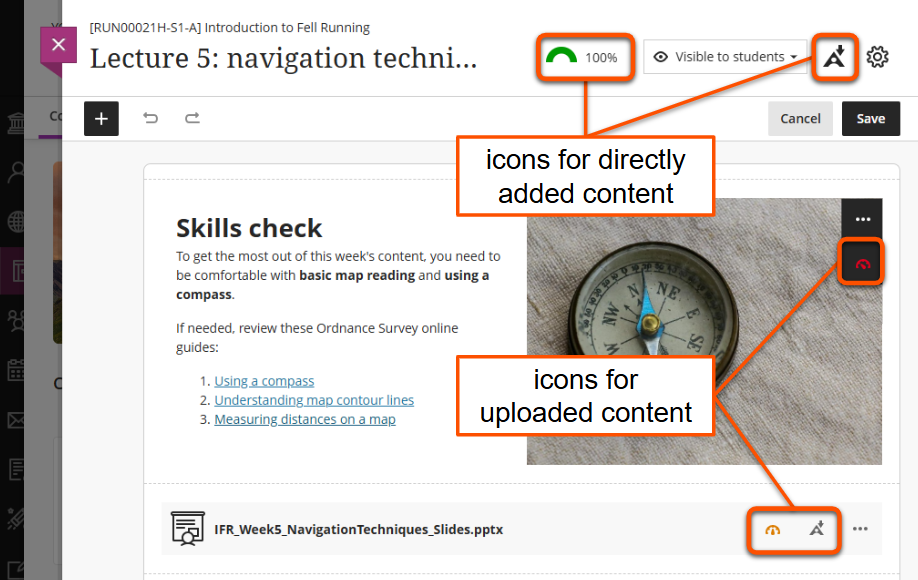
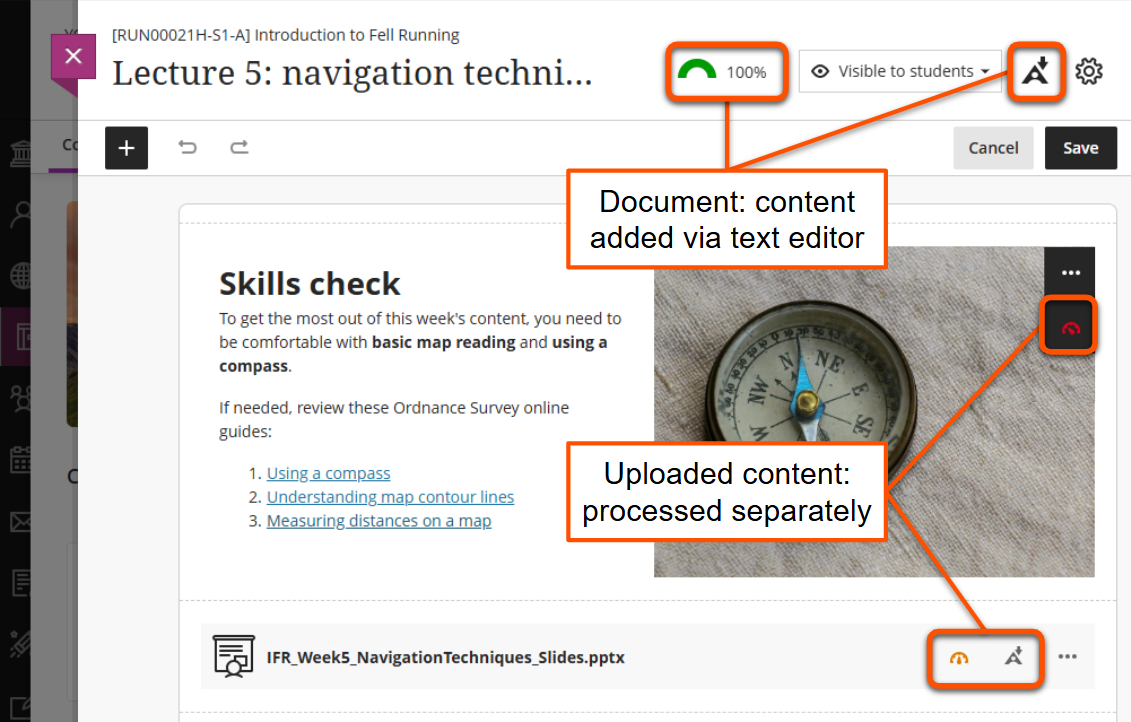
Ally tool - WIP 2

diff --git a/docs/ultra/ally-tool.md b/docs/ultra/ally-tool.md
@@ -7,6 +7,8 @@
 !!! principle "Relevant [VLE site design principles](../ultra/site-design-principles.md)"
 
     - 3.4 Essential: Site and materials content is accessible.
+    - 3.6 Essential: Links and materials titles describe the destination or content.
+    - 3.7 Essential: Direct, descriptive links are given to open embedded content (eg. video, Padlet or Xerte objects) in full screen.
 
 <!-- https://youtu.be/8VnGfbw0DXQ 
 
@@ -71,21 +73,21 @@ Ally automatically processes various types of site content, including:
 
     [Documents](../ultra/documents.md) are the main page type to present your site materials. Ally processes various content within Documents:
     
-    - content added in a Content block (the text editor): text, images, files, YouTube videos etc.
-    - content uploaded in an Image or File block
+    - processed directly: content added in a Content block (the text editor): text, images, files, YouTube videos etc.
+    - processed separately: content uploaded in an Image or File block has its own Ally icons. They must be checked or downloaded in alternate formats separately.
     - not processed: other embedded content, eg. Xerte or Padlet objects
 
     Ally icons relating to content directly added to the Document are shown in the heading bar. The accessibility score icon may take a few seconds to appear and is only shown in *Edit mode*.
     
-    Uploaded files and images display their own Ally icons.
-    
-    ![decorative](images/ally-tool-document.png)
+    ![Document Ally icons in title bar. Uploaded files and images have separate Ally icons](images/ally-tool-document.png)
 
 ## Accessibility checker
 
-!!! Warning
+!!! ai "Using automated tools effectively"
 
-    Ally may not be able to identify all accessibility issues within content, so the accessibility checker should be used as a starting point for your accessibility considerations.
+    The Ally accessibility checker is a **starting point** for your accessibility considerations, as it may not be able to identify all accessibility issues within content. For more details, see [Step 4](#step-4-final-check-for-unidentified-issues) below.
+
+Document content (text editor)( nicon - updates as you edit content)
 
 ### Accessibility score
 
@@ -96,7 +98,7 @@ Ally assigns content items an accessibility score in percentage format.
 The accessibility score icon displayed on items within your site gives a quick measure of content accessibility.
 </div>
 <figure markdown class="no-margin">
-![Gauge with needle pointing from low to high value to show accessibility score](images/ally-tools-accessibility-score-icon.png)
+![Gauge with needle pointing from low to high value to show accessibility score](images/ally-tool-accessibility-score-icon.png)
 <figcaption>Accessibility score icon</figcaption>
 </figure>
 </div>
@@ -115,36 +117,141 @@ Get more information by interacting with the accessibility score icon:
 
 ![decorative](images/ally-tool-score-icon-hover.png)
 
+!!! Tip
+
+    For Ultra Documents, the accessibility score only considers issues in content added directly within a Content block (ie. with the text editor). Uploaded files and images have their own accessibility score and feedback that must be addressed separately.
+
 ### Accessibility feedback
 
 The accessibility feedback page gives more detail on how the item's accessibility score was generated and how to fix the issues identified.
 
-1. Review the numeric accessibility score
-2. Address the issue shown.
-3. Repeat for other issues as necessary.
-4. For files: upload the corrected file. 
+Open the feedback page by clicking the accessibility score wherever it occurs, or on the Course Content page click the three dots icon then select **View Accessibility Score**.
+
+![decorative](images/ally-tool-3dots-score.png)
+
+#### Step 1: Review the numeric accessibility score
+
+The score panel appears at the top of the page. The numeric accessibility score gives a combined measure of the severity of issues identified for this item. Lower scores are more problematic.
+
+![Accessibility score for the item: 37% (with the gauge icon)](images/ally-tool-feedback-score.png)
+
+#### Step 2: Address the highlighted issue
+
+The **issue panel** appears under the score, containing:
+    
+- a brief description of the issue (eg. "This presentation contains images without description")
+- *What this means* button: to show more details on what the issue is and why it's important to fix it
+- *How to...* button: to show guides on how to fix the issue in various content formats
+
+The **review panel** highlights the affected content within the item. You can scroll through the item or use the up/down arrows in the top bar to review all affected content.
+
+![Lecture slides with missing description for image on title page](images/ally-tool-feedback-issue-review.png)
+
+Edit the content item to improve the accessibility:
+
+- *Uploaded files*: update content in the the original file. Download this from the site if needed.
+- *Ultra Documents*: update content directly within the review panel or issue panel. The accessibility score will update as you edit.
+
+#### Step 3: Repeat for further issues as necessary
+
+By default, the issue panel shows the most problematic issue first, but there may be others that also need to be addressed.
+
+1. Click the **All issues** button in the score panel.
+2. Select the next identified issue in the list.
+3. Repeat Step 2 to address this issue.
+4. Repeat Step 3 until all identified issues are addressed.
 
 
+MOVE INTO A SEPARATE EXAMPLE SECTION
+![All items list of 2 issues: missing image description, insufficient text contrast](images/ally-tool-feedback-all-items.png)
 
-1. Review the specific accessibility score given at the top of the page. This gives a combined measure of the severity of issues identified for this item; lower scores are more problematic.
-2. By default, the most severe issue is listed under the accessibility score. 
-click All issues to show all identified issues. Click to focus on an issue.
-review panel shows where the issue is located within the content. use the arrows to move through different instances of teh same issue.
-Make changes in the file and reupload. For a Document you can edit content directly in the review panel.
+#### Step 4: Final check for unidentified issues
 
-May not pick up all issues: for example, here Ally could not identify the poor links ofn slides 3 - raw URL and 'click here' instead of descriptive link
+!!! Warning
 
+    Ally can't identify accessibility issues that depend on context, such as appropriate descriptive text for links and file titles.
 
+Ally may not identify all accessibility issues in a content item, so also make sure to do your final own check for any remaining issues that may be present in your content.
 
-page includes:
+Here are some issues that Ally can't currently identify:
 
-1. a numerical accessibility score
-2. *All issues* button: details of accessibility issues identified
-3. explanation of the current issue and guidance on how to fix it
-4. the current issue highlighted within the content
-4. a quick upload option for corrected files
+??? Abstract "Common unidentified issue: non-descriptive link text"
 
-![Accessibility feedback page: described in example below](images/ally-tool-item-feedback.png)
+    <div markdown class="grid">
+    <div markdown>
+    Link text is the part of the link that displays for users to click. This must describe the destination content or reason for using the link.
+
+    However, Ally generally can't identify if a link isn't appropriately descriptive. For example, here Ally did not identify the poor raw URL or *click here* links.
+    </div>
+    ![decorative](images/ally-tool-missed-links.png)
+    </div>
+
+    **Why use descriptive link text**:
+
+    - Assistive technology can isolate links, so descriptive link text is needed for these to make sense without the surrounding text
+    - Descriptive links are better integrated with the text and so are more readable for all users
+    
+    **How to write descriptive link text**:
+    
+    - Describe where the link goes or the reason for using it, eg: *Guide to the Ally accessibility tool* or *Give us feedback on Ultra*
+    - Don't paste a raw URL without link text, eg: *https://vle-support.york.ac.uk/ultra/ally-tool/*
+    - Don't use text that gives no information about the destination, eg: *Click here* or *More information*
+
+??? Abstract "Common unidentified issue: missing direct links for embedded content"
+
+    Direct, descriptive links should be given to open embedded content (eg. video, Padlet or Xerte objects) in full screen.
+
+    However, Ally can't identify if an embed has an associated direct link. For example, here is didn't identify the missing link to the embedded Xerte object.
+
+    ![decorative](images/ally-tool-missed-embed-link.png)
+
+    **Why use direct links for embedded content**:
+    
+    - Being able to open the embedded content and control the size can make it easier to access for users of assistive technology and also on small screens.
+    - A direct link provides a fallback incase the embed fails for any reason.
+    
+    **How to add direct links for embedded content**:
+    
+    - Add the link under the embed using the usual method for your content type.
+    - Use link text that describes the embedded content, eg: *Open the embedded Padlet in full screen*
+
+??? Abstract "Common unidentified issue: non-descriptive file names"
+
+    Uploaded materials such as lecture slides, pre-workshop tasks etc. must have a descriptive file name. This allows users to know what the content is without opening the file.
+    
+    For example, *IFR_W5_Slides_Navigation* is much more helpful than *Slides* or *Week 5* - think how many of files students may have like this!
+
+    **Why use descriptive file names**:
+    
+    - Descriptive file names quickly summarise the content and help users search site content and organise downloaded files easily.
+    - This is helpful for all users, but is especially important for users with dyslexia or other neurodiversities and for users of assistive technologies.
+    
+    **How to write descriptive file names**:
+    
+    - Describe the content so that users don't have to open the file to know what it is. 
+        - module identifier, week, materials type, summary of content etc.
+        - eg: *IFR_W5_Slides_Navigation*, *IFR_W7_Seminar_Environment*
+    - For uploaded files, a different display name can be shown that makes sense in the context of the page, eg: *Lecture slides* displayed within a weekly Ultra Document.
+    - Use the naming format consistently for all files across the site.
+    - Don't use generic titles, such as *slides* or *week 1*
+
+#### Step 5: Save your improved content
+
+Once you have made your edits, save your improved content:
+
+**Uploaded files and images**:
+
+1. Save the updated file on your device.
+2. On the *Accessibility feedback page*, upload the improved file in the upload box.
+3. The improved file overwrites the original file and generates an updated accessibility score.
+
+![Improved slides with image description, good text contrast and descriptive link text. Accessibility score = 100%](images/ally-tool-feedback-improved-file.png)
+
+**Ultra Documents**:
+
+1. When you have finished updating content, click the **X icon** in the top right to close the feedback panel.
+2. This returns you to the Document edit view. Click **Save**.
+
 
 ## Download alternate formats
 
@@ -157,7 +264,7 @@ page includes:
 Blah blah blah
 </div>
 <figure markdown class="no-margin">
-![Large 'A' with a download arrow](images/ally-tools-alternate-formats-icon.png)
+![Large 'A' with a download arrow](images/ally-tool-alternate-formats-icon.png)
 <figcaption>Alternate formats icon</figcaption>
 </figure>
 </div>
@@ -168,7 +275,7 @@ how to download
 
 ## Site accessibility report
 
-To open the site accessibility report:
+To open the site-wide accessibility report:
 
 1. Under *Details & Actions*, click **Books & Tools / View course & institution tools**.
 2. On the new panel, select **Accessibility Report**.
@@ -184,26 +291,6 @@ There are various accessibility checkers available for specific content types.
 - microsoft, grackle for Google etc.
 
 --- 
-
-As an instructor on your vle course site, you will see coloured dials called Accessibility Scores and an alternative format download symbol to the right of your content. 
-
-![described in text.](<images/Accessibility gauge - origins.png>)
-
-Your students will not see the accessibility score; they will only see the alternative format symbol.
-
-1. Be careful showing your vle course site in a lecture - turn on student view to hide accessibility scores.
-2. Read about accessibility scores and what they mean.
-3. Select each accessibility score dial icon to open the feedback panel.
-4. Having worked through the guidance to improve your file, you can re-upload the content in the feedback panel. This will update your score.
-    a. The feedback panel below shows a pdf with areas highlighted in red boxes that need action to improve accessibility. A panel on the right contains guidance on how to improve these files and allows you to directly upload the fixed file after corrections.
-
-![described in preceding text](<images/Accessibility feedback panel.png>)
-
-Text editor
-The text editor in Blackboard has a checker built-in too. 
-When editing an item, click the dial top right of the text editor to see guidance. This checker tells you if there is poor contrast on text, if tables don’t have header rows, if images don’t have alt text etc. 
-
-![Accessibility checking dial is highlighted at the top right of the text editing area.](<images/Accessibility text editor gauge.png>)
 
 # Course accessibility reports
 
